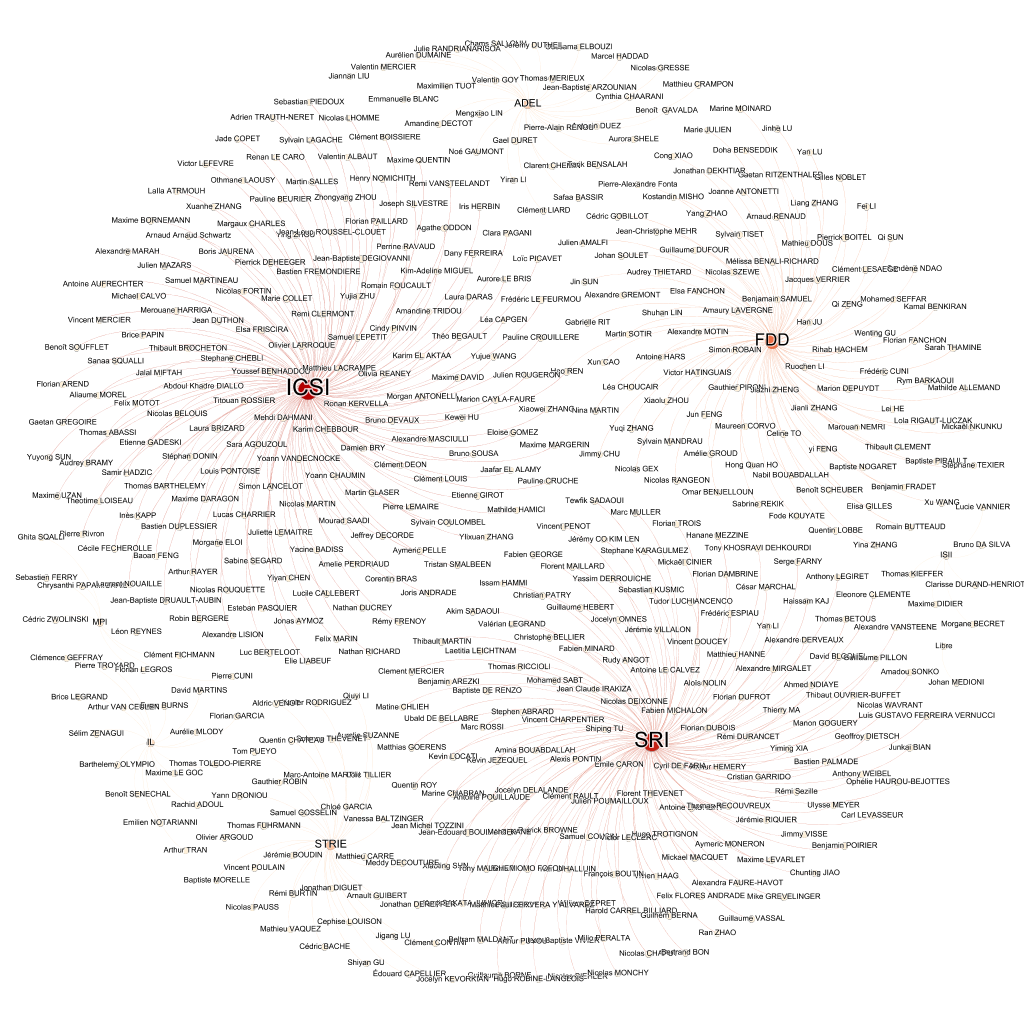
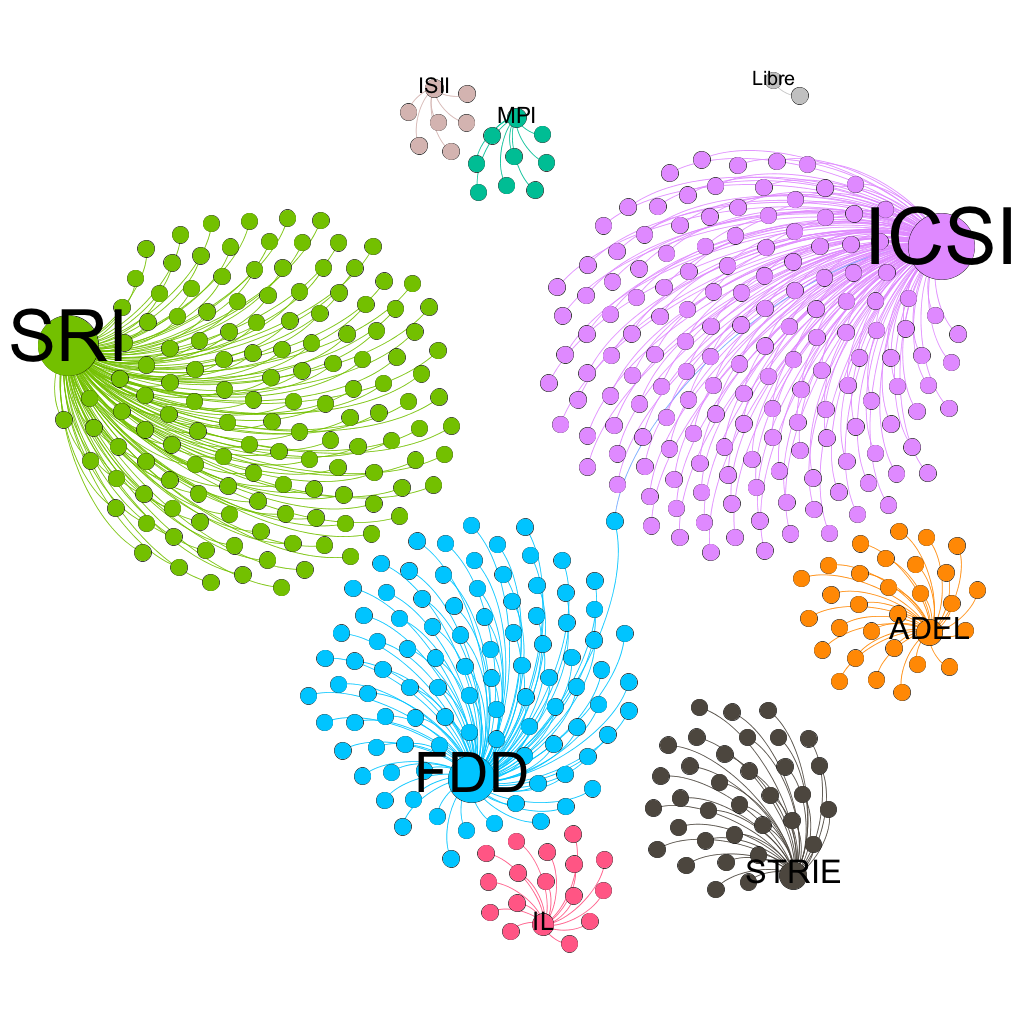
change graph & improve

Changed region(s): [[0.0, 0.0312, 1.0, 0.9688]]

diff --git a/pages/resultat/etudiant-filiere.html b/pages/resultat/etudiant-filiere.html
@@ -5,7 +5,7 @@
   <h1>Etudiant - Filière</h1>
   <hr />
   <p> Nous avons tout d'abord voulu observer les étudiants et leur choix de filières. </p>
-  <p> Les filières proposées à l'UTC sont : </p>
+  <p> Les filières proposées à l'UTC en Génie Informatique sont : </p>
   <ul>
     <li> ICSI : Ingénierie des Connaissances et des Supports d'Information </li>
     <li> SRI : Systèmes et Réseaux Informatique </li>
@@ -13,6 +13,8 @@
     <li> ADEL : Aide à la Decision En Logistique </li>
     <li> STRIE : Systèmes Temps-Réel et Informatique Embarquée </li>
     <li> MPI : Management des Projets Innovants </li>
+    <li> ISII, IL : Filières de Master </li>
+    <li> Libre : Filière libre </li>
   </ul>
 
   <hr />
@@ -26,11 +28,13 @@
     <li> Certains d'entre nous pensent que les GI préfèrent se spécialiser et d'autre pensent qu'ils préfèrent être bon dans tous les domaines et être plus généraliste. </li>
   </ul>
 
-  <h2> Algorithme utilisé </h2>
+  <h2> Algorithmes utilisés </h2>
   <ul>
-    <li> Layout Force Based </li>
-    <li> Fruchterman-Rheingold </li>
-    <li> Degré de centralité </li>
+    <li> Force Atlas 2 </li>
+    <li> Déchevauchement </li>
+    <li> Ajustement des labels </li>
+    <li> Modularité (pour la coloration) </li>
+    <li> Degré (pour la taille) </li>
   </ul>
 
   <hr />
@@ -41,9 +45,10 @@
 
   <h2> Observations </h2>
   <ul>
-    <li> Quelques soit les promos, on remarque que les filières les plus prisées restent : ICSI, SRI et FDD. </li>
+    <li> Nous avons fait figurer seulement les noms des filières car on s'interesse aux proportions et non aux étudiants à proprement dit qui se trouveraient dans chacune des filières. Quelques soit les promotions, on remarque que les filières les plus prisées restent : ICSI, SRI et FDD. En effet, cette observation fût faite pour chacune des promotions et est confirmée sur le graphique ci-dessus.</li>
     <li> La filière la plus choisie est bien ICSI, ce qui confirme l'orientation plus généraliste choisie par les GI. </li>
-    <li> ADEL ainsi que STRIE ne sont pas vraiment représentées. </li>
+    <li> ADEL ainsi que STRIE ne sont pas beaucoup représentées. </li>
+    <li> La proportion d'étudiants en MPI, filières de Master ou libre est très faible. </li>
   </ul>
 
 </div>
